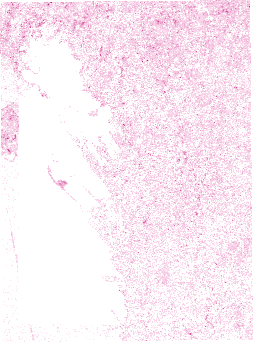
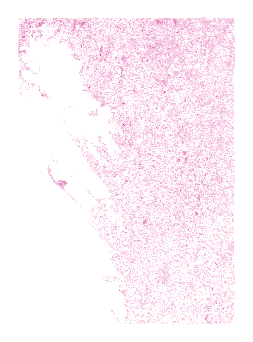
Science fixes from bug hunt: exclude WorldCover no-data from land; average brightening in linear power
- extras.mask_non_land (classes 80 and 0) used by script 26; extras.linear_mean_db_change used by 62 and 63.
- Reran 26, 62, 63 (OPERA tiles cached): coherence loss > 0.3 is 3.17 km2 (was 4.76), 0.04 km2 after the
  interval correction (was 0.09); other-land brightening rho 0.96 (was 0.94); evening track 0.27 / 0.20, still
  not significant. No conclusion changes. Runbook and scope updated; regression tests added.

Claude-Session: https://claude.ai/code/session_01Pch4y4sRqoHic5qxtQdQ5X

diff --git a/backend/scripts/26_nisar_extras.py b/backend/scripts/26_nisar_extras.py
@@ -81,14 +81,14 @@ def rain_response():
     a, b, c, d_, e, f = grid["transform"][:6]
     g50 = Grid(crs=grid["crs"], transform=(a * k, b, c, d_, e * k, f), width=db.shape[2], height=db.shape[1])
     lc = landcover_on(g50)
-    rho[lc == 80] = np.nan  # open water responds to wind, not wetness: excluded
+    rho = ex.mask_non_land(rho, lc)  # water responds to wind, not wetness; no-data (class 0) is not land
     bounds = write_png_overlay(ex.ramp_rgba(rho, ex.RESPONSE_STOPS), g50, OUT / "rain_response.png")
     land = np.isfinite(rho)
     doc = {
         "schemaVersion": "1.0", "area": "camanava_2026", "dataKind": "derived", "generatedAt": now(),
         "title": "How strongly NISAR radar brightness follows rain",
         "method": ("Per 50 m cell, Spearman rank correlation between NISAR L2 GCOV HH backscatter (dB, 5x5 mean of 10 m samples) "
-                   "and the 48-hour NASA GPM IMERG rain before each pass. WorldCover water cells are excluded."),
+                   "and the 48-hour NASA GPM IMERG rain before each pass. WorldCover water and no-data cells are excluded."),
         "nPasses": len(dates), "passDates": dates, "rain48hMm": rains,
         "overlayUrl": "/api/v1/nisar/extra/rain_response.png", "bounds": bounds,
         "legend": [{"value": v, "color": c} for v, c in ex.RESPONSE_STOPS],
@@ -142,8 +142,7 @@ def coherence_change():
         sys.exit(f"storm pair {STORM} not found among GUNW subsets")
     drop = ex.coherence_drop(storm, np.stack(calm))
     lc = landcover_on(grid)
-    drop_land = drop.copy()
-    drop_land[lc == 80] = np.nan
+    drop_land = ex.mask_non_land(drop, lc)
     bounds = write_png_overlay(ex.ramp_rgba(drop_land, ex.DROP_STOPS, transparent_below=0.05), grid, OUT / "coherence_change.png")
     cell_km2 = abs(grid.transform[0] * grid.transform[4]) / 1e6
     land = np.isfinite(drop_land)
@@ -156,7 +155,7 @@ def coherence_change():
         "schemaVersion": "1.0", "area": "camanava_2026", "dataKind": "derived", "generatedAt": now(),
         "title": "Coherence loss across the 8 Aug 2026 storm",
         "method": ("NISAR L2 GUNW HH coherence at 80 m: median coherence of the other 12-day pairs minus the coherence of the pair "
-                   "17 Jul -> 10 Aug 2026, which spans the 8-9 Aug storm. Positive = coherence lost. WorldCover water cells excluded."),
+                   "17 Jul -> 10 Aug 2026, which spans the 8-9 Aug storm. Positive = coherence lost. WorldCover water and no-data cells excluded."),
         "stormPair": {"reference": STORM[0], "secondary": STORM[1], "days": 24}, "calmPairs": pairs,
         "overlayUrl": "/api/v1/nisar/extra/coherence_change.png", "bounds": bounds,
         "legend": [{"value": v, "color": c} for v, c in ex.DROP_STOPS],

diff --git a/backend/processing/nisar_flood/extras.py b/backend/processing/nisar_flood/extras.py
@@ -8,6 +8,8 @@ Neither layer is a flood map. Cells with missing inputs stay NaN (never 0).
 """
 from __future__ import annotations
 
+import warnings
+
 import numpy as np
 
 LANDCOVER_NAMES = {10: "Tree cover", 20: "Shrubland", 30: "Grassland", 40: "Cropland", 50: "Built-up",
@@ -85,6 +87,27 @@ def ramp_rgba(values: np.ndarray, stops, *, alpha: int = 215, transparent_below:
         visible &= values >= transparent_below
     a = np.where(visible, alpha, 0)
     return np.dstack([rgb, a]).astype("uint8")
+
+
+def mask_non_land(values: np.ndarray, landcover: np.ndarray) -> np.ndarray:
+    """NaN where WorldCover is water (80) or no data (0). Unclassified cells are never counted as land."""
+    out = np.array(values, dtype="float64", copy=True)
+    out[(landcover == 80) | (landcover == 0)] = np.nan
+    return out
+
+
+def linear_mean_db_change(db_stack: np.ndarray, mask: np.ndarray) -> np.ndarray:
+    """Per date, the mean change over mask, averaged in linear power and returned in dB.
+
+    db_stack: n x H x W in dB. Each pixel's change is taken from its own median dB over time; the change is
+    converted to a linear power ratio before the pixels are averaged (averaging dB values would weight dim pixels
+    too heavily). NaN pixels are ignored.
+    """
+    db_stack = np.asarray(db_stack, dtype="float64")
+    with np.errstate(invalid="ignore", divide="ignore"), warnings.catch_warnings():
+        warnings.simplefilter("ignore", RuntimeWarning)  # all-NaN pixels or an empty mask give NaN, by design
+        ratio = 10.0 ** ((db_stack - np.nanmedian(db_stack, axis=0)) / 10.0)
+        return 10.0 * np.log10(np.nanmean(ratio[:, mask], axis=1))
 
 
 def by_landcover(values: np.ndarray, landcover: np.ndarray, *, stat=np.nanmedian, min_cells: int = 20) -> list[dict]:

diff --git a/backend/tests/test_nisar_extras.py b/backend/tests/test_nisar_extras.py
@@ -53,6 +53,34 @@ class BlockAndDropTests(unittest.TestCase):
         self.assertGreater(rgba[0, 2, 3], 0)
 
 
+class NonLandAndLinearMeanTests(unittest.TestCase):
+    def test_water_and_nodata_are_masked_not_counted_as_land(self):
+        values = np.array([[1.0, 2.0, 3.0, 4.0]])
+        lc = np.array([[40, 80, 0, 50]], dtype="uint8")
+        out = ex.mask_non_land(values, lc)
+        self.assertEqual(out[0, 0], 1.0)
+        self.assertTrue(np.isnan(out[0, 1]))  # water
+        self.assertTrue(np.isnan(out[0, 2]))  # no data (class 0)
+        self.assertEqual(out[0, 3], 4.0)
+        self.assertEqual(values[0, 1], 2.0)  # input not modified
+
+    def test_linear_mean_averages_power_not_dB(self):
+        # pixel A never changes; pixel B is 10 dB above its median on the last date
+        db = np.array([[[0.0, 0.0]], [[0.0, 0.0]], [[0.0, 10.0]]])
+        mask = np.array([[True, True]])
+        out = ex.linear_mean_db_change(db, mask)
+        self.assertAlmostEqual(out[0], 0.0)
+        self.assertAlmostEqual(out[2], 10 * np.log10((1 + 10) / 2))  # 7.40 dB, not the dB mean of 5 dB
+
+    def test_linear_mean_respects_mask_and_nan(self):
+        db = np.array([[[0.0, 0.0, np.nan]], [[0.0, 0.0, np.nan]], [[0.0, 10.0, np.nan]]])
+        mask = np.array([[True, True, True]])
+        out = ex.linear_mean_db_change(db, mask)
+        self.assertAlmostEqual(out[2], 10 * np.log10((1 + 10) / 2))  # all-NaN pixel ignored
+        out_none = ex.linear_mean_db_change(db, np.zeros((1, 3), bool))
+        self.assertTrue(np.isnan(out_none).all())
+
+
 class ExtrasApiTests(unittest.TestCase):
     def client(self, write=True):
         tmp = tempfile.TemporaryDirectory()

diff --git a/backend/scripts/63_cross_track.py b/backend/scripts/63_cross_track.py
@@ -31,7 +31,7 @@ from scipy.stats import rankdata
 
 BACKEND = Path(__file__).resolve().parents[1]
 sys.path.insert(0, str(BACKEND))
-from processing.nisar_flood.extras import LANDCOVER_NAMES  # noqa: E402
+from processing.nisar_flood.extras import LANDCOVER_NAMES, linear_mean_db_change  # noqa: E402
 from app.product_binding import product_fingerprint  # noqa: E402
 
 ASC = BACKEND / "data/output/camanava_2026/nisar"
@@ -205,11 +205,10 @@ def main():
             lc = s62.landcover_on(Grid(crs=g["crs"], transform=tuple(g["transform"][:6]), width=g["width"], height=g["height"]))
             with np.errstate(invalid="ignore", divide="ignore"):
                 db = 10 * np.log10(stack)
-            anomaly = db - np.nanmedian(db, axis=0)
             r48 = [rain.get(d) for d in dates]
             bright = []
             for name, mask in (("built-up land", lc == 50), ("other land", (lc != 50) & (lc != 80) & (lc > 0))):
-                series = [float(np.nanmean(a[mask])) for a in anomaly]
+                series = linear_mean_db_change(db, mask).tolist()
                 b_rho, b_p = perm_p(series, r48)
                 bright.append({"label": f"Mean HH change over {name} vs 48 h IMERG rain", "n": len(dates),
                                "rho": round(b_rho, 3), "pPermutation": round(b_p, 4)})

diff --git a/backend/scripts/62_robustness.py b/backend/scripts/62_robustness.py
@@ -117,9 +117,8 @@ def main():
     lc = landcover_on(grid)
     with np.errstate(invalid="ignore", divide="ignore"):
         db = 10 * np.log10(stack)
-    anomaly = db - np.nanmedian(db, axis=0)
     for name, mask in (("built-up land", lc == 50), ("other land", (lc != 50) & (lc != 80) & (lc > 0))):
-        series = np.array([np.nanmean(a[mask]) for a in anomaly])
+        series = ex.linear_mean_db_change(db, mask)  # pixels averaged in linear power, result in dB
         out["correlations"].append(correlation_report(series, rain48, f"Mean HH change over {name} vs 48 h IMERG rain"))
 
     # Field significance of the rain-response map (same 50 m aggregation as script 26).

diff --git a/docs/NISAR_RUNBOOK.md b/docs/NISAR_RUNBOOK.md
@@ -233,7 +233,7 @@ Exploratory: n = 11, one study area, provisional NISAR products, and IMERG is a 
 `scripts/26_nisar_extras.py` builds both layers in seconds from data already cached by scripts 20, 24 and 31, with no download. It writes small files to `data/cache/nisar/extra/` (committed), served by `GET /api/v1/nisar/rain-response`, `GET /api/v1/nisar/coherence-change` and `GET /api/v1/nisar/extra/{name}.png`. Tests: `tests/test_nisar_extras.py`.
 
 - **Rain response:** per 50 m cell, Spearman ρ between NISAR HH backscatter and the 48-hour IMERG rain before each of the 11 passes, with WorldCover water excluded. **Median ρ = 0.65; 70 % of land cells have ρ > 0.5.** The response is similar across built-up (0.65), tree cover (0.68), grassland (0.70) and cropland (0.59): the whole area "wets up" to the radar after storms. With n = 11, |ρ| above about 0.6 stands out from chance. **Not a flood map.**
-- **Storm coherence loss:** NISAR GUNW HH coherence at 80 m, calculated as the median of the 8 calm 12-day pairs minus the pair 17 Jul → 10 Aug, which spans the 8–9 Aug storm. **Median loss 0.06; 4.8 km² of land lost more than 0.3.** Loss is largest in vegetated classes (cropland 0.12, trees 0.11, mangroves 0.11) and smallest in built-up areas (0.055). Caveat: the storm pair spans 24 days and the calm pairs 12, so part of the loss is expected anyway. Loss can come from water, vegetation change, construction or noise; **never call it flooding.**
+- **Storm coherence loss:** NISAR GUNW HH coherence at 80 m, calculated as the median of the 8 calm 12-day pairs minus the pair 17 Jul → 10 Aug, which spans the 8–9 Aug storm. **Median loss 0.07; 3.2 km² of land lost more than 0.3** (corrected; the first figure, 4.8 km², counted cells with no land-cover data). Loss is largest in vegetated classes (cropland 0.12, trees 0.11, mangroves 0.11) and smallest in built-up areas (0.055). Caveat: the storm pair spans 24 days and the calm pairs 12, so part of the loss is expected anyway. Loss can come from water, vegetation change, construction or noise; **never call it flooding.**
 - **NISAR soil moisture** is now served at `GET /api/v1/nisar/soil-moisture`, with per-pass overlays.
 
 ### Correction: the backscatter-vs-rain check
@@ -253,10 +253,10 @@ No download needed. It is bound to the product manifest SHA-256 like `/validatio
 |---|---|---|---|---|
 | Open water outside permanent water vs 48 h IMERG | −0.77 | 0.008 | −0.98 to −0.34 | −0.88 to −0.72 (always negative) |
 | Mean HH change, built-up land, vs 48 h IMERG | +0.93 | 0.0002 | 0.67 to 0.99 | 0.90 to 0.95 |
-| Mean HH change, other land, vs 48 h IMERG | +0.94 | < 0.0001 | 0.70 to 1.00 | 0.92 to 0.95 |
+| Mean HH change, other land, vs 48 h IMERG | +0.96 | < 0.0001 | 0.78 to 1.00 | 0.95 to 0.96 |
 
 - **The rain-response map is not chance.** The rain dates were shuffled 2,000 times and the whole map recomputed each time. With shuffled rain, at most 26 % of land cells (95th percentile; 6 % on average) reach ρ > 0.5; the real map has **70 %** (field p < 0.001). Shuffling keeps the radar's spatial pattern, so this test allows for neighbouring cells being alike.
-- **Correction: the storm coherence loss does not survive the interval control.** With Markov decorrelation, a 24-day pair keeps about (12-day coherence)². Allowing for that leaves **0.04–0.09 km²** with loss over 0.3 (naive: 3.2 km² on classified land, 4.8 km² including unclassified cells). The storm pair loses more than any calm pair (calm pairs: 0.2–1.5 km² on the same naive measure), but the storm and the longer interval cannot be separated with this data. The layer stays in the app as exploratory and its card now says so (`km2DropOver03IntervalCorrected`).
+- **Correction: the storm coherence loss does not survive the interval control.** With Markov decorrelation, a 24-day pair keeps about (12-day coherence)². Allowing for that leaves **0.04 km²** with loss over 0.3 (naive: 3.2 km² of classified land). The storm pair loses more than any calm pair (calm pairs: 0.2–1.5 km² on the same naive measure), but the storm and the longer interval cannot be separated with this data. The layer stays in the app as exploratory and its card now says so (`km2DropOver03IntervalCorrected`).
 
 ### Independent replication on a second NISAR track (`scripts/63_cross_track.py` → `data/cache/validation/cross_track.json`, `GET /api/v1/validation/cross-track`)
 Script 19 lists **track 32 descending, frame 81: 100 % coverage, 10 passes, 28 Jun – 26 Oct 2026, at 10:24 UTC = 18:24 Manila the same day** (track 140 A passes at 05:30). It was processed separately into `data/output/camanava_2026/nisar_t032D/` (gitignored). The canonical ascending product and its validation hash were not touched.
@@ -274,5 +274,10 @@ Pitfall: three 120 m trial windows from an old test run (28 Jun, 10 Jul, 22 Jul)
 - **Open water outside permanent water: 0.10–0.86 km² per pass; 0.43 km² on half or more of passes** (track 140 A: 0.13–0.57 and 0.37).
 - **Same places:** **99 %** of the ascending track's recurring open water lies within 30 m of the descending track's recurring open water (76 % the other way). A randomly shifted map gives 0.04 % on average. Exact pixel overlap is 0.19 km², all of it on cropland (0.12), grassland, wetland and tree cover, with **0 km² on built-up land**: fishponds, paddies and wetland margins, not streets.
 - **OPERA DSWx-S1 (Sentinel-1C, 10:06 UTC), 24.3 h before each descending pass, 10 matches** (the ascending validation had 3 matches, each more than 48 h apart). Median **F1 0.74, IoU 0.58, agreement 0.87; precision 0.97, recall 0.60** (range F1 0.68–0.82). NISAR's water rule is conservative: what it calls water, Sentinel-1 almost always calls water. It misses some water OPERA includes, mostly inundated vegetation and shallow coastal edges. Total water, not flood-only accuracy; two satellites, not ground truth.
-- **The rain link is NOT reproduced on the 18:24 track.** IMERG (48 h before each 18:24 pass; `imerg_passes_t032D.json`) shows the afternoon thunderstorms, peaking about 14:00–15:30 Manila, and several passes 0.4–1.4 h after rain. But open water vs 48 h rain gives ρ = −0.15 (p = 0.68), and brightening over built-up and other land gives ρ = +0.35 (p = 0.33), n = 10. The 24 h and 6 h windows and 7-day POWER rain are also weak (|ρ| ≤ 0.5, not significant). So **"less open water and brighter land after rain" is a 05:30-track result only**: keep it exploratory and say it was not reproduced. Possible reasons (not tested): different incidence and look direction, evening drying, or provisional calibration differences between passes. The location of recurring water, by contrast, replicates strongly.
+- **The rain link is NOT reproduced on the 18:24 track.** IMERG (48 h before each 18:24 pass; `imerg_passes_t032D.json`) shows the afternoon thunderstorms, peaking about 14:00–15:30 Manila, and several passes 0.4–1.4 h after rain. But open water vs 48 h rain gives ρ = −0.15 (p = 0.68), and brightening gives ρ = +0.27 over built-up land (p = 0.44) and +0.20 over other land (p = 0.58), n = 10. The 24 h and 6 h windows and 7-day POWER rain are also weak (|ρ| ≤ 0.5, not significant). So **"less open water and brighter land after rain" is a 05:30-track result only**: keep it exploratory and say it was not reproduced. Possible reasons (not tested): different incidence and look direction, evening drying, or provisional calibration differences between passes. The location of recurring water, by contrast, replicates strongly.
 - Also visible: on the 18:24 track, built-up land is about 0.5 dB darker than its median on the three June–July passes and on 26 Oct (the only V1 pass). This may be a processing or calibration difference between product versions; it is unexplained.
+
+### Correction after the bug hunt (15 Nov, about 17:50)
+Two method fixes (`processing/nisar_flood/extras.py`, tests in `tests/test_nisar_extras.py`):
+- **WorldCover "no data" (class 0) is no longer counted as land** in script 26 (it was already excluded in script 62). Rain response: 109,918 cells, 70.3 % with ρ > 0.5, median ρ 0.655 (unchanged). Coherence: land 275 km², median loss 0.067, **3.17 km² with loss over 0.3 (was 4.76), 0.04 km² after the interval correction (was 0.09)**.
+- **Brightening is averaged in linear power, not dB**, in scripts 62 and 63. Built-up ρ 0.93 is unchanged; other land 0.94 → **0.96**; evening track built-up 0.35 → 0.27, other land 0.35 → 0.20 (still not significant). No conclusion changes.

diff --git a/docs/SUBMISSION_SCOPE.md b/docs/SUBMISSION_SCOPE.md
@@ -21,9 +21,9 @@ This overrides sections 3, 11 and 16 of `Tanaw-final-development-plan.md`. Its h
 ### v6.1 science and validation hardening (15 Nov, about 16:00)
 - **A second NISAR track reproduces the result independently.** Track 32 descending (10 passes at 18:24 Manila; track 140 passes at 05:30) with its own Manila Bay calibration (HH < −13.0 dB vs −12.5) finds 0.10–0.86 km² per pass and 0.43 km² recurring (vs 0.37). **99 % of the 05:30 track's recurring water lies within 30 m of the 18:24 track's** (random shift: 0.04 %), **0 km² on built-up land.** Even the evening passes, after the afternoon thunderstorms, show no street water.
 - **Validation went from 3 near matches (> 48 h apart) to 13 matches; 10 are same-time-of-day Sentinel-1C OPERA DSWx-S1 maps 24 h before each descending pass:** median F1 0.74, IoU 0.58, agreement 0.87, **precision 0.97**, recall 0.60.
-- **Headline correlations survive bootstrap, leave-one-out and permutation tests:** open water vs rain ρ −0.77 (p 0.008, always negative without any one pass), brightening vs rain ρ +0.93 / +0.94 (p < 0.001). The rain-response map is far beyond chance (70 % of cells > 0.5 vs ≤ 26 % with shuffled rain).
-- **Not reproduced: the rain link.** On the 18:24 track, open water vs 48 h IMERG rain gives ρ −0.15 (p 0.68) and brightening +0.35 (p 0.33), n = 10, even though several passes came 0.4–1.4 h after afternoon storms. Present "brighter after rain / less open water after rain" as **seen on the morning track only, not reproduced on the evening track**. Don't make it a headline. Do use the evening track in the story: **even 1–2 hours after a thunderstorm, NISAR shows no water on CAMANAVA's streets.**
-- **Downgraded: storm coherence loss.** After allowing for its 24-day interval, only 0.04–0.09 km² of loss remains, so the storm's effect is not separable. Keep the layer exploratory and never use it in the video.
+- **Headline correlations survive bootstrap, leave-one-out and permutation tests:** open water vs rain ρ −0.77 (p 0.008, always negative without any one pass), brightening vs rain ρ +0.93 / +0.96 (p < 0.001). The rain-response map is far beyond chance (70 % of cells > 0.5 vs ≤ 26 % with shuffled rain).
+- **Not reproduced: the rain link.** On the 18:24 track, open water vs 48 h IMERG rain gives ρ −0.15 (p 0.68) and brightening +0.27 / +0.20 (p ≥ 0.44), n = 10, even though several passes came 0.4–1.4 h after afternoon storms. Present "brighter after rain / less open water after rain" as **seen on the morning track only, not reproduced on the evening track**. Don't make it a headline. Do use the evening track in the story: **even 1–2 hours after a thunderstorm, NISAR shows no water on CAMANAVA's streets.**
+- **Downgraded: storm coherence loss.** After allowing for its 24-day interval, only 0.04 km² of loss remains, so the storm's effect is not separable. Keep the layer exploratory and never use it in the video.
 - Pitch line for Validity: *"Two NISAR orbits, morning and evening, processed separately, find the same water to within 30 m. Sentinel-1 agrees 97 % of the time when NISAR says water."*
 
 ### New story (use for the video, README and project page)
